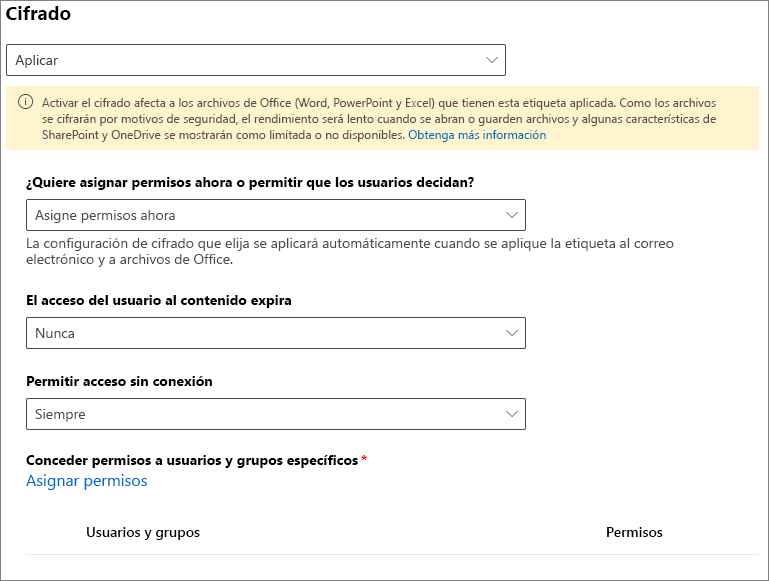
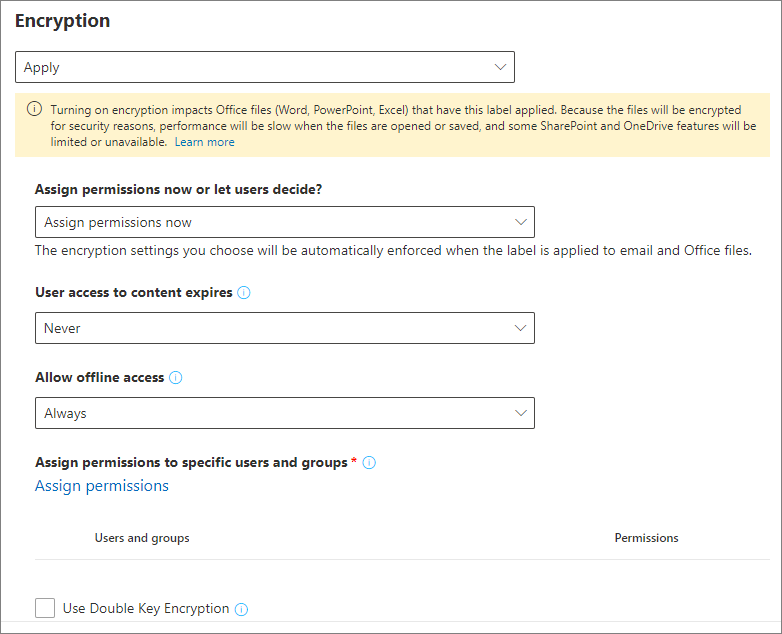
commit translated contents

diff --git a/microsoft-365/compliance/double-key-encryption.md b/microsoft-365/compliance/double-key-encryption.md
@@ -12,44 +12,40 @@ ms.reviewer: esaggese
 localization_priority: Normal
 ms.collection:
 - M365-security-compliance
-ms.openlocfilehash: 47fc4bc47831970ef7a7f2087cf6c86b6fefb8c2
-ms.sourcegitcommit: fe20f5ed07f38786c63df0f73659ca472e69e478
+ms.openlocfilehash: d9ed155576d69889e53e4e4d1ce03e4233fd08ff
+ms.sourcegitcommit: 4789b261eb029d7c965421a1260acc110e6385db
 ms.translationtype: MT
 ms.contentlocale: es-ES
-ms.lasthandoff: 07/21/2020
-ms.locfileid: "45201776"
+ms.lasthandoff: 07/23/2020
+ms.locfileid: "45387447"
 ---
 # <a name="double-key-encryption-dke"></a>Cifrado de doble clave (DKE)
 
-> *Se aplica a: [Microsoft 365 Compliance](https://www.microsoft.com/microsoft-365/business/compliance-management), [Azure Information Protection](https://azure.microsoft.com/pricing/details/information-protection)*
+> *Se aplica a: cifrado de doble clave para Microsoft 365 Public Preview, [microsoft 365 Compliance](https://www.microsoft.com/microsoft-365/business/compliance-management), [Azure Information Protection](https://azure.microsoft.com/pricing/details/information-protection)*
 >
 > *Instrucciones para: [cliente de etiquetado Unificado de Azure Information Protection para Windows](https://docs.microsoft.com/azure/information-protection/faqs.md#whats-the-difference-between-the-azure-information-protection-classic-and-unified-labeling-clients)*
 >
 > *Descripción del servicio para: [cumplimiento de Microsoft 365](https://docs.microsoft.com/office365/servicedescriptions/microsoft-365-service-descriptions/microsoft-365-tenantlevel-services-licensing-guidance/microsoft-365-security-compliance-licensing-guidance)*
 
-Esta versión preliminar pública de cifrado de doble clave (DKE) permite usar el cliente de etiquetado Unificado de Azure Information Protection para proteger el contenido altamente confidencial, a la vez que mantiene el control total de la clave.
-
-El cifrado de doble clave requiere dos claves, que se usan juntas, para obtener acceso al contenido protegido. Se almacena una clave en Microsoft Azure y se mantiene la otra clave.
+El cifrado de doble clave (DKE) utiliza dos claves conjuntamente para obtener acceso al contenido protegido. Se almacena una clave en Microsoft Azure y se mantiene la otra clave. El cliente de etiqueta Unificado de Azure Information Protection protege el contenido altamente confidencial mientras mantiene un control total de una de las claves.
 
 El cifrado de doble clave admite tanto la nube como las implementaciones locales. Estas implementaciones ayudan a garantizar que los datos cifrados permanezcan opacos dondequiera que almacene los datos protegidos.
 
 Para obtener más información acerca de las claves predeterminadas de raíz de inquilino basadas en la nube, vea [Planning and Implementing Your Azure Information Protection tenant Key](https://docs.microsoft.com/azure/information-protection/plan-implement-tenant-key).
 
-El cifrado de doble clave es similar a un cuadro de depósito de seguridad que requiere una clave de banco y una clave de cliente para obtener acceso. Para descifrar el contenido protegido, debe usar la clave administrada de Microsoft y la clave de cliente.
-
 En el siguiente vídeo se muestra cómo funciona el cifrado doble de claves para proteger el contenido.
+
+> [!VIDEO https://msit.microsoftstream.com/embed/video/f466a1ff-0400-a936-221c-f1eab45dc756]
 
 Si las organizaciones tienen alguno de los siguientes requisitos, puede usar DKE para ayudar a proteger el contenido:
 
 - Desea asegurarse de que *solo usted* puede descifrar el contenido protegido en todas las circunstancias.
 - No desea que Microsoft tenga acceso a datos protegidos por su cuenta.
-- Tiene requisitos normativos para mantener las claves dentro de un límite geográfico. Todas las claves de clientes para el cifrado y el descifrado de datos se mantienen en su centro de datos.
-
-> [!VIDEO https://msit.microsoftstream.com/embed/video/f466a1ff-0400-a936-221c-f1eab45dc756]
+- Tiene requisitos normativos para mantener las claves dentro de un límite geográfico. Todas las claves que se incluyen para el cifrado y descifrado de datos se mantienen en el centro de datos.
 
 ## <a name="system-and-licensing-requirements-for-dke"></a>Requisitos de licencia y sistema para DKE
 
-Esta versión preliminar pública de cifrado de doble clave para Microsoft 365 está disponible como parte de Microsoft 365 E5 y Office 365 E5. Si no tiene una licencia de Microsoft 365 E5, puede registrarse para obtener una [versión de prueba](https://aka.ms/M365E5ComplianceTrial). Para obtener más información acerca de estas licencias, consulte [Microsoft 365 Licensing Guidance for security & Compliance](https://docs.microsoft.com/office365/servicedescriptions/microsoft-365-service-descriptions/microsoft-365-tenantlevel-services-licensing-guidance/microsoft-365-security-compliance-licensing-guidance).
+Cifrado de doble clave para la parte de Microsoft 365 de Microsoft 365 E5 y Office 365 E5. Si no tiene una licencia de Microsoft 365 E5, puede registrarse para obtener una [versión de prueba](https://aka.ms/M365E5ComplianceTrial). Para obtener más información acerca de estas licencias, consulte [Microsoft 365 Licensing Guidance for security & Compliance](https://docs.microsoft.com/office365/servicedescriptions/microsoft-365-service-descriptions/microsoft-365-tenantlevel-services-licensing-guidance/microsoft-365-security-compliance-licensing-guidance).
 
 **Office Insider** Para usar la versión preliminar pública, debe ser miembro del programa Office Insider. Para unirse a Office Insider, vaya a [https://insider.office.com](https://insider.office.com) . Una vez que sea miembro, prepare el entorno para implementar las compilaciones de Office Insider eligiendo el método de implementación adecuado para su organización. Para obtener instrucciones, consulte [Introducción a la implementación de compilaciones de Office Insider](https://insider.office.com/business/deploy).
 
@@ -63,15 +59,19 @@ Esta versión preliminar pública de cifrado de doble clave para Microsoft 365 e
 
 ## <a name="about-this-public-preview-article"></a>Acerca de este artículo de la versión preliminar pública
 
-Hay varias formas de realizar algunos de los pasos para implementar el cifrado doble de claves. En este artículo se proporcionan instrucciones detalladas para que los administradores menos experimentados implementen correctamente el servicio. Si tiene experiencia con las tecnologías comunes, como GIT, compartidas por los métodos de implementación descritos en este artículo, puede optar por usar sus propios métodos.
+Hay varias formas de realizar algunos de los pasos para implementar el cifrado doble de claves. En este artículo se proporcionan instrucciones detalladas para que los administradores menos experimentados implementen correctamente el servicio. Si le resulta cómodo hacerlo, puede elegir usar sus propios métodos.
 
-Para la versión preliminar pública, hemos incluido instrucciones paso a paso sobre cómo implementar el servicio de cifrado de doble clave en Azure. Este escenario no es algo que probablemente haría en producción. Para la versión preliminar pública, el uso de Azure es una forma rápida de implementar que le permite empezar a usar el cifrado de doble clave inmediatamente.
+En este artículo se incluyen instrucciones paso a paso sobre cómo implementar el servicio de cifrado de doble clave en Azure. Este escenario no es algo que probablemente haría en producción. Para la versión preliminar pública, el uso de Azure es una forma rápida de implementar DKE. La implementación en Azure le permite empezar a usar el cifrado de doble clave inmediatamente.
 
-Puede optar por implementar el servicio siempre que lo desee, ya sea de forma local en la red o con otro proveedor. Deberá publicar el almacén de claves con los métodos apropiados para esa ubicación.
+Puede implementar el servicio localmente en la red o con otro proveedor. Deberá publicar el almacén de claves con los métodos apropiados para esa ubicación.
 
 ## <a name="deploy-double-key-encryption"></a>Implementar el cifrado de doble clave
 
-Deberá seguir estos pasos generales para configurar el cifrado de doble clave para su organización. El ejemplo de este artículo usa Azure como destino de implementación para el servicio DKE. Si va a realizar la implementación en otra ubicación, deberá proporcionar sus propios valores.
+Este artículo y el vídeo de implementación usan Azure como destino de implementación para el servicio DKE. Si va a realizar la implementación en otra ubicación, deberá proporcionar sus propios valores.
+
+Vea el [vídeo sobre la implementación de doble clave](https://msit.microsoftstream.com/video/cfdda3ff-0400-a521-1579-f1eacc37fc7e) para ver una introducción paso a paso de los conceptos del artículo. El vídeo tarda unos 18 minutos en completarse.
+
+Deberá seguir estos pasos generales para configurar el cifrado de doble clave para su organización.
 
 1. [Requisitos previos de instalación de software](#install-software-prerequisites)
 1. [Clone el repositorio de GitHub con cifrado de doble clave](#clone-the-dke-github-repository)
@@ -146,13 +146,13 @@ Las siguientes instrucciones están destinadas a usuarios no con experiencia de 
 
 5. En el cuadro de diálogo **Seleccionar carpeta** que aparece, busque y seleccione una ubicación para almacenar el repositorio. En el símbolo del sistema, seleccione **abrir**.
 
-    El repositorio se abre en Visual Studio Code y muestra la rama git actual en la parte inferior izquierda. La rama actual debe ser **maestra**.
+    El repositorio se abre en Visual Studio Code y muestra la rama git actual en la parte inferior izquierda. La rama debe ser **maestra**.
 
     Por ejemplo:
 
     :::image type="content" source="../media/dke-vscode-master.png" alt-text="Rama de patrón de Visual Studio Code":::
 
-6. Seleccione el **patrón** de palabras y, a continuación, seleccione **public_preview** de la lista de ramas. 
+6. Seleccione el **patrón** de palabras y, a continuación, seleccione **public_preview** de la lista de ramas.
 
    > [!IMPORTANT]
    > Al seleccionar la rama public_preview, se asegura de que tiene los archivos correctos para compilar el proyecto. Si no elige la rama correcta, se producirá un error en la implementación.
@@ -178,41 +178,79 @@ Elija si desea usar el correo electrónico o la autorización de roles. DKE solo
 
 - **Autorización de roles**. Permite a su organización autorizar el acceso a las claves en función de los grupos de Active Directory y requiere que el servicio Web pueda consultar LDAP.
 
-Para establecer la configuración de acceso clave para DKE:
+**Para establecer la configuración de acceso clave para DKE mediante autorización de correo electrónico**
 
-1. En el **appsettings.js** del archivo, defina solo una de estas opciones:
+1. Abra el **appsettings.jsen** archivo y busque la `AuthorizedEmailAddress` configuración.
 
-   - Para la autorización de correo electrónico, busque la opción **AuthorizedEmailAddresses** . Agregue la dirección de correo electrónico que quiera autorizar. Separe varias direcciones de correo electrónico con comillas dobles y comas. Por ejemplo: **"' AuthorizedEmailAddresses '": ["email1@company.com", "email2@company.com", email3@company.com]**
+2. Agregue las direcciones o direcciones de correo electrónico que quiera autorizar. Separe varias direcciones de correo electrónico con comillas dobles y comas. Por ejemplo:
 
-   :::image type="content" source="../media/dke-email-accesssetting.png" alt-text="appsettings.jsen archivo que muestra el método de autorización de correo electrónico":::
+   ```json
+   "AuthorizedEmailAddress": ["email1@company.com", "email2@company.com ", "email3@company.com"]
+   ```
 
-   - Para la autorización de roles, busque la opción **AuthorizedRoles** . Defina con los nombres de los grupos de ActiveDirectory que desea autorizar. Por ejemplo: **"AuthorizedRoles": ["Grupo1", "grupo2", "Group3"]**
+3. Busque la `LDAPPath` configuración y quite el texto `If role authorization is used then this is the LDAP path` comprendido entre las comillas dobles. Deje las comillas dobles en su posición. Cuando haya terminado, la configuración debería ser similar a la siguiente.
+
+   ```json
+   "LDAPPath": ""
+   ```
+
+4. Busque la `AuthorizedRoles` configuración y elimine la línea completa.
+
+Esta imagen muestra la **appsettings.jsen** un archivo con el formato correcto para la autorización de correo electrónico.
+
+   :::image type="content" source="../media/dke-email-accesssetting.png" alt-text="El appsettings.jsen archivo que muestra el método de autorización de correo electrónico":::
+
+**Para establecer la configuración de acceso clave de DKE mediante la autorización de roles**
+
+1. Abra el **appsettings.jsen** archivo y busque la `AuthorizedRoles` configuración.
+
+2. Agregue los nombres de grupo de Active Directory que desea autorizar. Separe varios nombres de grupo con comillas dobles y comas. Por ejemplo:
+
+   ```json
+   "AuthorizedRoles": ["group1", "group2", "group3"]
+   ```
+
+3. Busque la `LDAPPath` opción y agregue el dominio de Active Directory. Por ejemplo:
+
+   ```json
+   "LDAPPath": "contoso.com"
+   ```
+
+4. Busque la `AuthorizedEmailAddress` configuración y elimine la línea completa.
+
+Esta imagen muestra la **appsettings.jsen** un archivo con el formato correcto para la autorización de rol.
 
    :::image type="content" source="../media/dke-role-accesssetting.png" alt-text="appsettings.jsen el archivo que muestra el método de autorización de roles":::
 
-2. Quite la configuración que no sea relevante para el método de autorización elegido.
-
 #### <a name="tenant-and-key-settings"></a>Configuración de inquilinos y claves
 
-La configuración de clave y de inquilino de DKE se encuentra en la **appsettings.jsen** el archivo y en el archivo **Startup.CS** .
+La configuración de clave y de inquilino de DKE se encuentra en el **appsettings.jsen** el archivo.
 
-En el **appsettings.js** del archivo, modifique los siguientes valores:
+**Para establecer la configuración de inquilinos y claves para DKE**
 
-- **ValidIssuers**. Reemplace `<tenantid>` por el GUID del espacio empresarial.
-- **JwtAudience**. Reemplace `<yourhostname>` por el nombre de host del equipo en el que se ejecutará el servicio DKE.
+1. Abra el **appsettings.jsen** el archivo.
+
+2. Busque la `ValidIssuers` configuración y sustitúyala `<tenantid>` por el identificador de inquilino. Puede encontrar el identificador de inquilino en el portal de Azure y ver las [propiedades del espacio](https://aad.portal.azure.com/#blade/Microsoft_AAD_IAM/ActiveDirectoryMenuBlade/Properties)empresarial. Por ejemplo:
+
+   ```json
+   "ValidIssuers": [
+     "https://sts.windows.net/9c99431e-b513-44be-a7d9-e7b500002d4b/"
+   ]
+   ```
+
+Busque el `JwtAudience` . Reemplace `<yourhostname>` por el nombre de host del equipo en el que se ejecutará el servicio DKE. Por ejemplo:
+
+
 
   > [!IMPORTANT]
-  > El valor de JwtAudience debe coincidir *exactamente*con el nombre de su host. Puede usar **localhost: 5000** durante la depuración. Sin embargo, cuando haya terminado la depuración, asegúrese de actualizar este valor al nombre de host del servidor.
+  > El valor de `JwtAudience` debe coincidir *exactamente*con el nombre de su host. Puede usar **localhost: 5001** durante la depuración. Sin embargo, cuando haya terminado la depuración, asegúrese de actualizar este valor al nombre de host del servidor.
 
-- **LDAPPath**. Establezca el valor de la manera siguiente:
+- `TestKeys:Name`. Escriba un nombre para la clave. Por ejemplo: `TestKey1`
+- `TestKeys:Id`. Cree un GUID y escríbalo como el `TestKeys:ID` valor. Por ejemplo, `DCE1CC21-FF9B-4424-8FF4-9914BD19A1BE`. Puede usar un sitio como el [generador de GUID en línea](https://guidgenerator.com/) para generar un GUID de forma aleatoria.
 
-  - Si está usando la autorización de roles, escriba el dominio LDAP.
-  - Si está usando autorización de correo electrónico, deje este valor vacío.
+Esta imagen muestra el formato correcto para la configuración de inquilinos y claves de **appsettings.js**. `LDAPPath`está configurado para la autorización de roles.
 
-   Para obtener más información, consulte [configuración de acceso clave](#key-access-settings).
-
-- **TestKeys: nombre**. Escriba un nombre para la clave. Ejemplo: **TestKey1**
-- **TestKeys: ID**. Cree un GUID y escríbalo como el valor **TestKeys: ID** . Por ejemplo, **DCE1CC21-FF9B-4424-8FF4-9914BD19A1BE**. Puede usar un sitio como el [generador de GUID en línea](https://guidgenerator.com/) para generar un GUID de forma aleatoria.
+:::image type="content" source="../media/dke-appsettingsjson-tenantkeysettings.png" alt-text="Muestra los valores correctos de las claves y los inquilinos para DKE en el appsettings.jsen el archivo.":::
 
 ### <a name="generate-test-keys"></a>Generar claves de prueba
 
@@ -242,16 +280,18 @@ Para generar claves:
    openssl rsa -in key.pem -pubout > pubkeyonly.pem
    ```
 
-1. En un editor de texto, Abra **pubkeyonly. pem**. Copie todo el contenido del archivo **pubkeyonly. pem** , excepto la primera y la última línea, en la sección **PublicPem** de la **appsettings.jsen** el archivo.
+1. En un editor de texto, Abra **pubkeyonly. pem**. Copie todo el contenido del archivo **pubkeyonly. pem** , excepto la primera y la última línea, en la `PublicPem` sección de la **appsettings.jsen** el archivo.
 
-1. En un editor de texto, Abra **privkeynopass. pem**. Copie todo el contenido del archivo **privkeynopass. pem** , excepto la primera y la última línea, en la sección **PrivatePem** de la **appsettings.jsen** el archivo.
+1. En un editor de texto, Abra **privkeynopass. pem**. Copie todo el contenido del archivo **privkeynopass. pem** , excepto la primera y la última línea, en la `PrivatePem` sección de la **appsettings.jsen** el archivo.
 
-1. Quite todos los espacios en blanco y las nuevas líneas en las secciones **PublicPem** y **PrivatePem** .
+1. Quite todos los espacios en blanco y las nuevas líneas en las `PublicPem` `PrivatePem` secciones y.
 
     > [!IMPORTANT]
     > Cuando copie este contenido, no elimine ninguno de los datos del PEM.
 
-1. Abra el archivo **Startup.CS** y busque las siguientes líneas:
+1. En Visual Studio Code, vaya al archivo **Startup.CS** . Este archivo se encuentra en el repositorio de DoubleKeyEncryptionService que clonó localmente en DoubleKeyEncryptionService\src\customer-key-store\.
+
+2. Busque las siguientes líneas:
 
    ```c#
         #if USE_TEST_KEYS
@@ -261,13 +301,13 @@ Para generar claves:
         #endif
    ```
 
-1. Reemplace estas líneas con el texto siguiente:
+3. Reemplace estas líneas con el texto siguiente:
 
    ```csharp
    services.AddSingleton<ippw.IKeyStore, ippw.TestKeyStore>();
    ```
 
-   Los resultados finales deben parecerse a la siguiente imagen.
+   Los resultados finales deben ser similares a los siguientes.
 
    :::image type="content" source="../media/dke-startupcs-usetestkeys.png" alt-text="archivo startup.cs para la versión preliminar pública":::
 
@@ -305,11 +345,13 @@ Use las siguientes instrucciones para crear el proyecto DKE de forma local:
 
    Si hay errores rojos, compruebe el resultado de la consola. Asegúrese de que ha completado todos los pasos anteriores correctamente y de que las versiones de compilación correctas están presentes.
 
-1. **Ejecutar** \> **Inicie la depuración** para depurar el proceso. Si se le pide que seleccione un entorno, seleccione **.net Core**.
+2. Seleccione **Ejecutar** \> la **depuración de inicio** para depurar el proceso. Si se le pide que seleccione un entorno, seleccione **.net Core**.
 
-El depurador de .NET Core se inicia normalmente en **https://localhost:5001** . Para ver la clave de prueba, vaya a **https://localhost:5001** y agregue una barra diagonal (/) y el nombre de la clave.
+Normalmente, el depurador de .net Core se inicia en ' ' https://localhost:5001 `. To view your test key, go to ` https://localhost:5001 ' y se anexa una barra diagonal (/) y el nombre de la clave. Por ejemplo:
 
-Por ejemplo:**https://localhost:5001/TestKey1**
+```https
+https://localhost:5001/TestKey1
+```
 
 La clave debe mostrarse en formato JSON.
 
@@ -317,9 +359,9 @@ La configuración se ha completado. Antes de publicar el almacén de claves, en 
 
 ### <a name="publish-the-key-store"></a>Publicar el almacén de claves
 
-En los siguientes pasos se describe cómo crear una instancia de Azure App Service para hospedar la implementación de DKE y cómo publicar las claves generadas en Azure.
+Para publicar el almacén de claves, debe crear una instancia de Azure App Service para hospedar la implementación de DKE. A continuación, publicará las claves generadas en Azure.
 
-Para crear una instancia de la aplicación Web de Azure para hospedar la implementación de DKE:
+**Para crear una instancia de la aplicación Web de Azure para hospedar la implementación de DKE**
 
 1. En el explorador, inicie sesión en el [portal de Microsoft Azure](https://ms.portal.azure.com)y vaya a **App Services**  >  **Add**.
 
@@ -436,7 +478,7 @@ Para registrar el almacén de claves:
  
 7. En el menú emergente **configurar plataformas** , seleccione **Web**.
  
-8. En **URI de redireccionamiento** , escriba el URI del servicio de cifrado de doble clave. Escriba la dirección URL del servicio de aplicaciones, incluidos el nombre de host y el dominio.
+8. En **URI de redireccionamiento**, escriba el URI del servicio de cifrado de doble clave. Escriba la dirección URL del servicio de aplicaciones, incluidos el nombre de host y el dominio.
 
     Por ejemplo: https://mycustomerkeystoretest.com
 
@@ -444,7 +486,7 @@ Para registrar el almacén de claves:
     - Si está probando localmente con Visual Studio, use **https://localhost:5001** .
     - En todos los casos, el esquema debe ser **https**.
 
-    Asegúrese de que el nombre de host coincida exactamente con el nombre de host de App Service. Puede que lo haya cambiado a localhost para solucionar los problemas de la compilación. En appsettings.jsen, este es el nombre de host que identificó como valor para la configuración de JwtAudience.
+    Asegúrese de que el nombre de host coincida exactamente con el nombre de host de App Service. Puede que lo haya cambiado a `localhost` para solucionar los problemas de la compilación. En **appsettings.jsactivado**, este valor es el nombre de host que se establece para `JwtAudience` .
 
 6. En **concesión implícita**, active la casilla de verificación **tokens de identificador** .
 
@@ -480,9 +522,7 @@ El almacén de claves de DKE está registrado. Para continuar, [cree etiquetas c
 
 ## <a name="create-labels-using-dke"></a>Crear etiquetas con DKE
 
-Una vez que haya registrado el almacén de claves, configure las etiquetas de confidencialidad en el centro de cumplimiento de Microsoft 365 y aplique el cifrado de doble clave a dichas etiquetas.
-
-En la interfaz de usuario de creación de etiquetas, seleccione la opción **usar cifrado de doble clave** y escriba la dirección URL del punto de conexión para la clave.
+En el centro de cumplimiento de Microsoft 365, cree una nueva etiqueta de confidencialidad y aplique el cifrado como lo haría en otro caso. Seleccione **usar cifrado doble de clave** y escriba la dirección URL del punto de conexión para la clave.
 
 Por ejemplo:
 

diff --git a/microsoft-365/compliance/insider-risk-management-configure.md b/microsoft-365/compliance/insider-risk-management-configure.md
@@ -12,12 +12,12 @@ author: robmazz
 manager: laurawi
 audience: itpro
 ms.collection: m365-security-compliance
-ms.openlocfilehash: c53bfa58e36b2723d5227c38805482dcb629d864
-ms.sourcegitcommit: a08103bc120bdec7cfeaf67c1be4e221241e69ad
+ms.openlocfilehash: b968de12a2dee9d6b820558af05f99c7be29763c
+ms.sourcegitcommit: b3316b947059d3a2e31acbf0ab57d2e000b662ff
 ms.translationtype: MT
 ms.contentlocale: es-ES
-ms.lasthandoff: 07/21/2020
-ms.locfileid: "45199694"
+ms.lasthandoff: 07/22/2020
+ms.locfileid: "45255345"
 ---
 # <a name="get-started-with-insider-risk-management"></a>Introducción a la administración de riesgos internos
 
@@ -53,8 +53,8 @@ En función de la estructura del equipo de administración del cumplimiento, tie
 | :---- | :---------------- |
 | **Administración de riesgos de Insider** | Use este grupo de roles para administrar la administración de riesgos de internación para su organización en un único grupo. Al agregar todas las cuentas de usuario para los administradores, analistas e investigadores designados, puede configurar los permisos de administración de riesgos de Insider en un único grupo. Este grupo de roles contiene todos los roles de permisos de administración de riesgos de Insider. Esta configuración es la forma más sencilla de empezar rápidamente con la administración de riesgos de Insider y es una buena opción para las organizaciones que no necesitan permisos separados definidos para grupos de usuarios independientes.|
 | **Administrador de administración de riesgos de Insider** | Use este grupo de roles para configurar inicialmente la administración de riesgos de Insiders y más adelante para separar los administradores de riesgos de Insider en un grupo definido.  Los usuarios de este grupo de roles pueden crear, leer, actualizar y eliminar directivas de administración de riesgos de Insider, la configuración global y las asignaciones de grupos de roles. |
-| **Analistas de administración de riesgos de Insider** | Use este grupo para asignar permisos a los usuarios que actuarán como analistas de casos de riesgo de Insider. Los usuarios de este grupo de roles pueden obtener acceso a todas las plantillas de alertas de administración de riesgos de Insider, casos y notificaciones. No pueden acceder al explorador de contenido de riesgo de Insider. |
-| **Investigadores de administración de riesgos de Insider** | Use este grupo para asignar permisos a los usuarios que actuarán como investigadores de datos de riesgo de Insider. Los usuarios de este grupo de roles pueden tener acceso a todas las alertas de administración de riesgos de Insider, casos, plantillas y el explorador de contenido para todos los casos. |
+| **Analistas de administración de riesgos de Insider** | Use este grupo para asignar permisos a los usuarios que actuarán como analistas de casos de riesgo de Insider. Los usuarios de este grupo de roles pueden tener acceso a todas las plantillas de alertas, casos y notificaciones de administración de riesgos de Insider. No pueden acceder al explorador de contenido de riesgo de Insider. |
+| **Investigadores de administración de riesgos de Insider** | Use este grupo para asignar permisos a los usuarios que actuarán como investigadores de datos de riesgo de Insider. Los usuarios de este grupo de roles pueden tener acceso a todas las alertas de administración de riesgos de Insider, los casos, las plantillas de avisos y el explorador de contenido. |
 
 ### <a name="add-users-to-an-insider-risk-management-role-group"></a>Adición de usuarios a un grupo de roles de administración de riesgos de Insider
 

diff --git a/microsoft-365/compliance/prepare-tls-1.2-in-office-365.md b/microsoft-365/compliance/prepare-tls-1.2-in-office-365.md
@@ -1,28 +1,26 @@
 ---
 title: Preparación para TLS 1.2 en Office 365 y Office 365 GCC
 description: Cómo prepararse para usar TLS 1.2 en todas las combinaciones de cliente-servidor y navegador-servidor en Office 365 y Office 365 GCC tras la deshabilitación de la compatibilidad con TLS 1.0 y 1.1.
-author: simonxjx
-manager: dcscontentpm
+author: workshay
+manager: laurawi
 localization_priority: Normal
 search.appverid:
 - MET150
 audience: ITPro
 ms.service: O365-seccomp
 ms.topic: article
-ms.author: v-six
+ms.author: shmehta
+ms.reviewer: krowley
 appliesto:
 - Office 365 Business
-ms.openlocfilehash: d3086c85adf76a322775ce53697504b77e672f9a
-ms.sourcegitcommit: 51a9f34796535309b8ca8b52da92da0a3621327b
+ms.openlocfilehash: b76854442fd74dddddcef778ae03a9d76ceb3cc6
+ms.sourcegitcommit: a53af7a228bb1f58cb8128a69a19da49f9e28700
 ms.translationtype: MT
 ms.contentlocale: es-ES
-ms.lasthandoff: 07/02/2020
-ms.locfileid: "45024843"
+ms.lasthandoff: 07/23/2020
+ms.locfileid: "45372503"
 ---
 # <a name="preparing-for-tls-12-in-office-365-and-office-365-gcc"></a>Preparación para TLS 1.2 en Office 365 y Office 365 GCC
-
-> [!IMPORTANT]
-> El mundo se encuentra inmerso en una pandemia, y en Microsoft somos conscientes de las repercusiones para nuestros clientes y socios. Para aligerar la carga de nuestros clientes comerciales, hemos detenido temporalmente el cumplimiento de la obsolescencia de TLS 1.0 y 1.1. Una vez que se estabilice la situación actual, enviaremos una actualización con una escala de tiempo revisada. (Este artículo se ha corregido para reflejar el cambio).
 
 ## <a name="summary"></a>Resumen
 
@@ -34,7 +32,7 @@ Para obtener información acerca de cómo eliminar las dependencias de TLS 1.0 y
 
 ## <a name="more-information"></a>Más información
 
-Ya hemos comenzado la interrupción de TLS 1.0 y 1.1 a partir de enero de 2020. No se admiten todos los clientes, dispositivos o servicios que se conecten a Office 365 a través de TLS 1.0 o 1.1 en nuestras instancias DoD o GCC High. Para nuestros clientes comerciales de Office 365, detendremos cualquier aplicación de desuso de TLS 1.0 y 1.1 hasta que se estabilice la situación con respecto al COVID-19.
+Ya hemos comenzado la interrupción de TLS 1.0 y 1.1 a partir de enero de 2020. No se admiten todos los clientes, dispositivos o servicios que se conecten a Office 365 a través de TLS 1.0 o 1.1 en nuestras instancias DoD o GCC High. Para nuestros clientes comerciales de Office 365, el desuso de TLS 1,0 y 1,1 se iniciará el 15 de octubre de 2020.
 
 Recomendamos que todas las combinaciones de cliente-servidor y navegador-servidor utilicen TLS 1.2 (o una versión posterior) para mantener la conexión con los servicios de Office 365. Es posible que tenga que actualizar ciertas combinaciones cliente-servidor y navegador-servidor.
 
